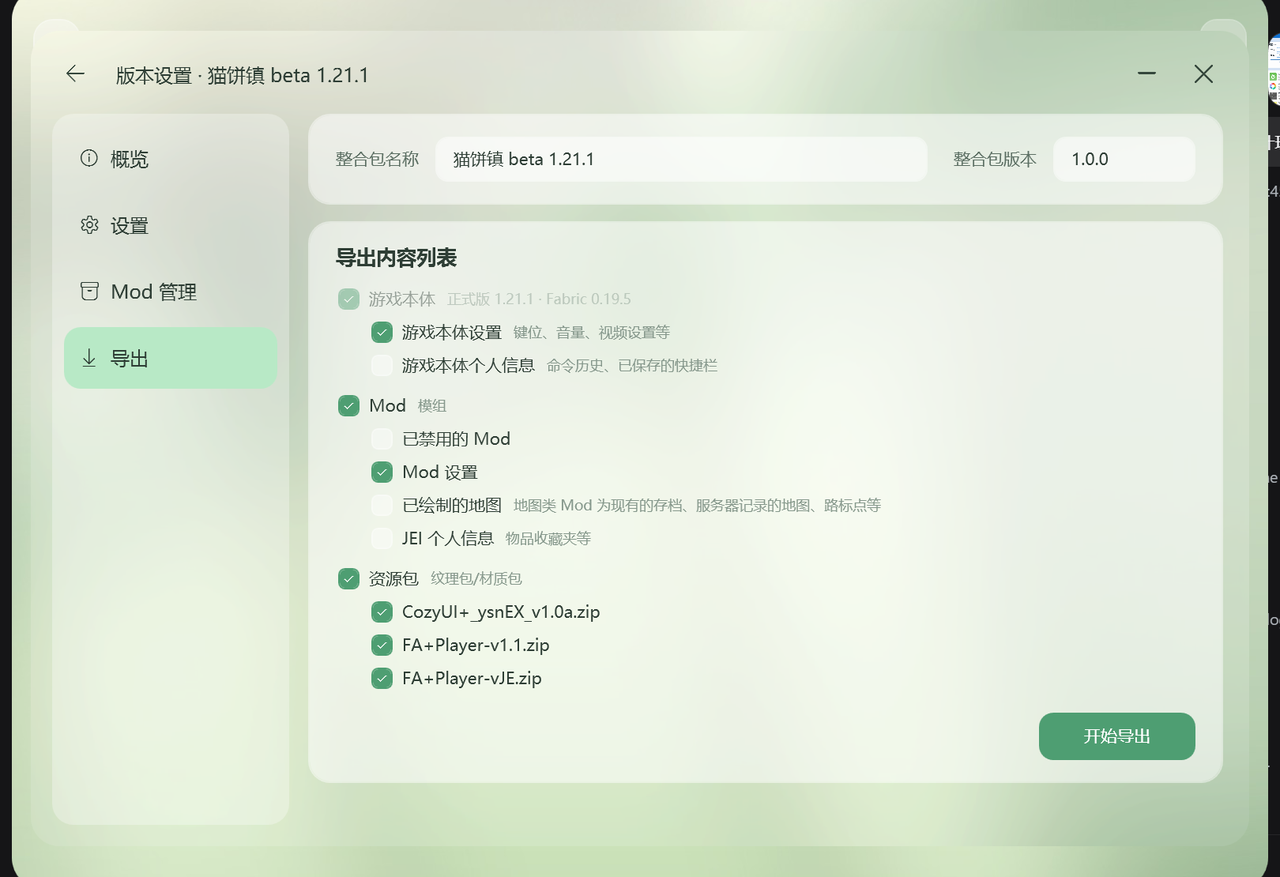
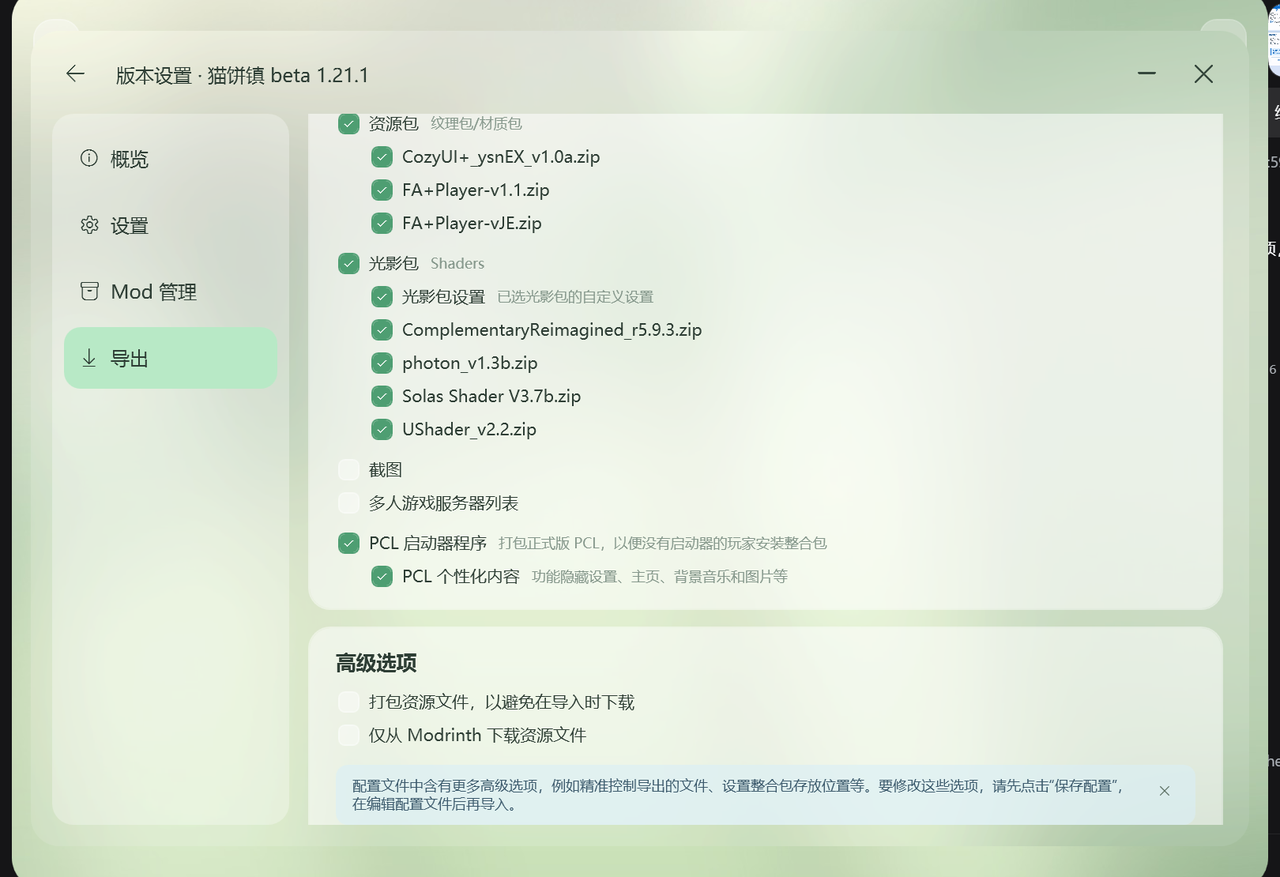
feat: 补全版本设置（高级管理/内存条/服务器/导出高级选项）与回到顶部

diff --git a/src/MutsumiLauncher/Views/VersionSettings/LaunchOptionsPage.xaml b/src/MutsumiLauncher/Views/VersionSettings/LaunchOptionsPage.xaml
@@ -78,17 +78,127 @@
             <Border Style="{StaticResource GlassCard}" Padding="22,18" Margin="0,14,0,0">
                 <StackPanel>
                     <TextBlock Text="内存分配" Style="{StaticResource H2}" />
+
                     <StackPanel Margin="6,14,0,0">
-                        <RadioButton Style="{StaticResource MtlRadio}" Content="跟随全局设置" IsChecked="True" Margin="0,0,0,12" />
+                        <RadioButton Style="{StaticResource MtlRadio}" Content="跟随全局设置"
+                                     IsChecked="True" Margin="0,0,0,12" />
                         <RadioButton Style="{StaticResource MtlRadio}" Content="自动配置" Margin="0,0,0,12" />
-                        <StackPanel Orientation="Horizontal">
-                            <RadioButton Style="{StaticResource MtlRadio}" Content="自定义" VerticalAlignment="Center" />
-                            <TextBlock Text="4096 MB" FontSize="13" Foreground="{StaticResource InkSoft}"
-                                       VerticalAlignment="Center" Margin="12,0,0,0" />
-                        </StackPanel>
+                        <Grid>
+                            <Grid.ColumnDefinitions>
+                                <ColumnDefinition Width="Auto" />
+                                <ColumnDefinition Width="*" />
+                            </Grid.ColumnDefinitions>
+                            <RadioButton Style="{StaticResource MtlRadio}" Content="自定义"
+                                         VerticalAlignment="Center" />
+                            <Slider Grid.Column="1" Style="{StaticResource MtlSlider}" Minimum="512"
+                                    Maximum="32768" Value="8192" Margin="16,0,0,0" VerticalAlignment="Center" />
+                        </Grid>
+                    </StackPanel>
+
+                    <Grid Margin="6,16,0,0">
+                        <Grid.ColumnDefinitions>
+                            <ColumnDefinition Width="200" />
+                            <ColumnDefinition Width="*" />
+                        </Grid.ColumnDefinitions>
+                        <TextBlock Text="启动游戏前进行内存优化" Style="{StaticResource FieldLabel}" />
+                        <ComboBox Grid.Column="1" Style="{StaticResource MtlComboBox}" SelectedIndex="0">
+                            <ComboBoxItem Content="跟随全局设置" />
+                            <ComboBoxItem Content="开启" />
+                            <ComboBoxItem Content="关闭" />
+                        </ComboBox>
+                    </Grid>
+
+                    <StackPanel Margin="6,18,0,0">
+                        <Grid>
+                            <Grid.ColumnDefinitions>
+                                <ColumnDefinition Width="55*" />
+                                <ColumnDefinition Width="45*" />
+                            </Grid.ColumnDefinitions>
+                            <TextBlock Text="已使用内存" FontSize="12" Foreground="{StaticResource InkSoft}" />
+                            <TextBlock Grid.Column="1" Text="游戏分配" FontSize="12"
+                                       Foreground="{StaticResource InkSoft}" />
+                        </Grid>
+                        <Border Height="6" CornerRadius="3" Background="#33FFFFFF" Margin="0,6,0,0"
+                                ClipToBounds="True">
+                            <Grid>
+                                <Grid.ColumnDefinitions>
+                                    <ColumnDefinition Width="55*" />
+                                    <ColumnDefinition Width="45*" />
+                                </Grid.ColumnDefinitions>
+                                <Border Background="{StaticResource AccentDeep}" CornerRadius="3" />
+                                <Border Grid.Column="1" Background="#59FFFFFF" CornerRadius="3" />
+                            </Grid>
+                        </Border>
+                        <Grid Margin="0,6,0,0">
+                            <Grid.ColumnDefinitions>
+                                <ColumnDefinition Width="55*" />
+                                <ColumnDefinition Width="45*" />
+                            </Grid.ColumnDefinitions>
+                            <TextBlock Text="8.7 GB / 15.8 GB" FontSize="13" Foreground="{StaticResource Ink}" />
+                            <TextBlock Grid.Column="1" Text="8.0 GB（可用 7.1 GB）" FontSize="13"
+                                       Foreground="{StaticResource Ink}" />
+                        </Grid>
                     </StackPanel>
                 </StackPanel>
             </Border>
+
+            <Border Style="{StaticResource GlassCard}" Padding="22,18" Margin="0,14,0,0">
+                <StackPanel>
+                    <TextBlock Text="服务器" Style="{StaticResource H2}" />
+
+                    <Grid Margin="0,14,0,0">
+                        <Grid.ColumnDefinitions>
+                            <ColumnDefinition Width="110" />
+                            <ColumnDefinition Width="*" />
+                        </Grid.ColumnDefinitions>
+                        <TextBlock Text="登录方式" Style="{StaticResource FieldLabel}" />
+                        <ComboBox Grid.Column="1" Style="{StaticResource MtlComboBox}" SelectedIndex="0">
+                            <ComboBoxItem Content="正版登录或离线登录" />
+                            <ComboBoxItem Content="仅正版登录" />
+                            <ComboBoxItem Content="仅离线登录" />
+                        </ComboBox>
+                    </Grid>
+
+                    <Grid Margin="0,10,0,0">
+                        <Grid.ColumnDefinitions>
+                            <ColumnDefinition Width="110" />
+                            <ColumnDefinition Width="*" />
+                        </Grid.ColumnDefinitions>
+                        <TextBlock Text="自动进入服务器" Style="{StaticResource FieldLabel}" />
+                        <TextBox Grid.Column="1" Style="{StaticResource MtlTextBox}" />
+                    </Grid>
+                </StackPanel>
+            </Border>
+
+            <Expander Style="{StaticResource Accordion}" Header="高级选项" Margin="0,14,0,0">
+                <StackPanel>
+                    <Grid>
+                        <Grid.ColumnDefinitions>
+                            <ColumnDefinition Width="110" />
+                            <ColumnDefinition Width="*" />
+                        </Grid.ColumnDefinitions>
+                        <TextBlock Text="JVM 参数" Style="{StaticResource FieldLabel}" />
+                        <TextBox Grid.Column="1" Style="{StaticResource MtlTextBox}" />
+                    </Grid>
+                    <Grid Margin="0,10,0,0">
+                        <Grid.ColumnDefinitions>
+                            <ColumnDefinition Width="110" />
+                            <ColumnDefinition Width="*" />
+                        </Grid.ColumnDefinitions>
+                        <TextBlock Text="环境变量" Style="{StaticResource FieldLabel}" />
+                        <TextBox Grid.Column="1" Style="{StaticResource MtlTextBox}" />
+                    </Grid>
+                </StackPanel>
+            </Expander>
+
+            <Button Style="{StaticResource PrimaryButton}" HorizontalAlignment="Right" Margin="0,18,0,0"
+                    Height="46" Padding="26,0">
+                <StackPanel Orientation="Horizontal">
+                    <TextBlock Text="&#xE72A;" FontFamily="{StaticResource IconFont}" FontSize="13"
+                               VerticalAlignment="Center" Margin="0,0,8,0" />
+                    <TextBlock Text="全局设置" VerticalAlignment="Center" FontSize="15" />
+                </StackPanel>
+            </Button>
 
         </StackPanel>
     </ScrollViewer>

diff --git a/src/MutsumiLauncher/Views/VersionSettings/ExportPage.xaml b/src/MutsumiLauncher/Views/VersionSettings/ExportPage.xaml
@@ -95,12 +95,96 @@
                                   Content="FA+Player-v1.1.zip" />
                         <CheckBox Style="{StaticResource MtlCheckBox}" IsChecked="True" Margin="28,10,0,0"
                                   Content="FA+Player-vJE.zip" />
-                    </StackPanel>
 
-                    <Button Style="{StaticResource PrimaryButton}" HorizontalAlignment="Right"
-                            Margin="0,20,0,0" Content="开始导出" Width="132" />
+                        <CheckBox Style="{StaticResource MtlCheckBox}" IsChecked="True" Margin="0,16,0,0">
+                            <StackPanel Orientation="Horizontal">
+                                <TextBlock Text="光影包" FontSize="14" Foreground="{StaticResource Ink}" />
+                                <TextBlock Text="Shaders" FontSize="12" Foreground="{StaticResource InkMute}"
+                                           Margin="10,0,0,0" VerticalAlignment="Center" />
+                            </StackPanel>
+                        </CheckBox>
+
+                        <CheckBox Style="{StaticResource MtlCheckBox}" IsChecked="True" Margin="28,10,0,0">
+                            <StackPanel Orientation="Horizontal">
+                                <TextBlock Text="光影包设置" FontSize="14" Foreground="{StaticResource Ink}" />
+                                <TextBlock Text="已选光影包的自定义设置" FontSize="12"
+                                           Foreground="{StaticResource InkMute}" Margin="10,0,0,0"
+                                           VerticalAlignment="Center" />
+                            </StackPanel>
+                        </CheckBox>
+                        <CheckBox Style="{StaticResource MtlCheckBox}" IsChecked="True" Margin="28,10,0,0"
+                                  Content="ComplementaryReimagined_r5.9.3.zip" />
+                        <CheckBox Style="{StaticResource MtlCheckBox}" IsChecked="True" Margin="28,10,0,0"
+                                  Content="photon_v1.3b.zip" />
+                        <CheckBox Style="{StaticResource MtlCheckBox}" IsChecked="True" Margin="28,10,0,0"
+                                  Content="Solas Shader V3.7b.zip" />
+                        <CheckBox Style="{StaticResource MtlCheckBox}" IsChecked="True" Margin="28,10,0,0"
+                                  Content="UShader_v2.2.zip" />
+
+                        <CheckBox Style="{StaticResource MtlCheckBox}" Margin="0,16,0,0" Content="截图" />
+                        <CheckBox Style="{StaticResource MtlCheckBox}" Margin="0,10,0,0"
+                                  Content="多人游戏服务器列表" />
+
+                        <CheckBox Style="{StaticResource MtlCheckBox}" IsChecked="True" Margin="0,16,0,0">
+                            <StackPanel Orientation="Horizontal">
+                                <TextBlock Text="PCL 启动器程序" FontSize="14" Foreground="{StaticResource Ink}" />
+                                <TextBlock Text="打包正式版 PCL，以便没有启动器的玩家安装整合包" FontSize="12"
+                                           Foreground="{StaticResource InkMute}" Margin="10,0,0,0"
+                                           VerticalAlignment="Center" />
+                            </StackPanel>
+                        </CheckBox>
+                        <CheckBox Style="{StaticResource MtlCheckBox}" IsChecked="True" Margin="28,10,0,0">
+                            <StackPanel Orientation="Horizontal">
+                                <TextBlock Text="PCL 个性化内容" FontSize="14" Foreground="{StaticResource Ink}" />
+                                <TextBlock Text="功能隐藏设置、主页、背景音乐和图片等" FontSize="12"
+                                           Foreground="{StaticResource InkMute}" Margin="10,0,0,0"
+                                           VerticalAlignment="Center" />
+                            </StackPanel>
+                        </CheckBox>
+                    </StackPanel>
                 </StackPanel>
             </Border>
+
+            <Border Style="{StaticResource GlassCard}" Padding="22,18" Margin="0,14,0,0">
+                <StackPanel>
+                    <TextBlock Text="高级选项" Style="{StaticResource H2}" />
+
+                    <CheckBox Style="{StaticResource MtlCheckBox}" Margin="2,14,0,0"
+                              Content="打包资源文件，以避免在导入时下载" />
+                    <CheckBox Style="{StaticResource MtlCheckBox}" Margin="2,10,0,0"
+                              Content="仅从 Modrinth 下载资源文件" />
+
+                    <Border Background="#99D9EEF7" CornerRadius="10" Padding="14,10" Margin="0,16,0,0">
+                        <Grid>
+                            <Grid.ColumnDefinitions>
+                                <ColumnDefinition Width="*" />
+                                <ColumnDefinition Width="Auto" />
+                            </Grid.ColumnDefinitions>
+                            <TextBlock FontSize="12" Foreground="#FF3E5C6E" TextWrapping="Wrap"
+                                       Text="配置文件中含有更多高级选项，例如精准控制导出的文件、设置整合包存放位置等。要修改这些选项，请先点击“保存配置”，在编辑配置文件后再导入。" />
+                            <Button Grid.Column="1" Style="{StaticResource LinkIconButton}" Content="&#xE711;"
+                                    VerticalAlignment="Top" Margin="10,0,0,0" />
+                        </Grid>
+                    </Border>
+
+                    <WrapPanel Margin="0,16,0,0">
+                        <Button Style="{StaticResource SecondaryButton}" Content="读取配置" Width="130"
+                                Margin="0,0,10,0" />
+                        <Button Style="{StaticResource SecondaryButton}" Content="保存配置" Width="130"
+                                Margin="0,0,10,0" />
+                        <Button Style="{StaticResource SecondaryButton}" Content="整合包制作指南" Width="150" />
+                    </WrapPanel>
+                </StackPanel>
+            </Border>
+
+            <Button Style="{StaticResource PrimaryButton}" HorizontalAlignment="Right" Margin="0,18,0,0"
+                    Height="46" Padding="24,0">
+                <StackPanel Orientation="Horizontal">
+                    <TextBlock Text="&#xE7B8;" FontFamily="{StaticResource IconFont}" FontSize="14"
+                               VerticalAlignment="Center" Margin="0,0,8,0" />
+                    <TextBlock Text="开始导出" VerticalAlignment="Center" FontSize="15" />
+                </StackPanel>
+            </Button>
 
         </StackPanel>
     </ScrollViewer>

diff --git a/src/MutsumiLauncher/Themes/Styles.xaml b/src/MutsumiLauncher/Themes/Styles.xaml
@@ -580,5 +580,97 @@
         <Setter Property="FontSize" Value="11" />
         <Setter Property="Foreground" Value="{StaticResource InkMute}" />
     </Style>
+    <Style x:Key="DangerButton" TargetType="Button">
+        <Setter Property="Height" Value="38" />
+        <Setter Property="Padding" Value="18,0" />
+        <Setter Property="Foreground" Value="#FFC0392B" />
+        <Setter Property="FontSize" Value="14" />
+        <Setter Property="Cursor" Value="Hand" />
+        <Setter Property="Template">
+            <Setter.Value>
+                <ControlTemplate TargetType="Button">
+                    <Border x:Name="Bd" Background="#26FFFFFF" BorderBrush="#66C0392B"
+                            BorderThickness="1" CornerRadius="12" Padding="{TemplateBinding Padding}">
+                        <ContentPresenter HorizontalAlignment="Center" VerticalAlignment="Center" />
+                    </Border>
+                    <ControlTemplate.Triggers>
+                        <Trigger Property="IsMouseOver" Value="True">
+                            <Setter TargetName="Bd" Property="Background" Value="#22C0392B" />
+                        </Trigger>
+                    </ControlTemplate.Triggers>
+                </ControlTemplate>
+            </Setter.Value>
+        </Setter>
+    </Style>
+
+    <Style x:Key="CircleButton" TargetType="Button">
+        <Setter Property="Width" Value="44" />
+        <Setter Property="Height" Value="44" />
+        <Setter Property="Foreground" Value="White" />
+        <Setter Property="FontFamily" Value="{StaticResource IconFont}" />
+        <Setter Property="FontSize" Value="15" />
+        <Setter Property="Cursor" Value="Hand" />
+        <Setter Property="Template">
+            <Setter.Value>
+                <ControlTemplate TargetType="Button">
+                    <Border x:Name="Bd" Background="{StaticResource AccentDeep}" CornerRadius="22">
+                        <Border.Effect>
+                            <DropShadowEffect BlurRadius="16" ShadowDepth="3" Direction="270"
+                                              Opacity="0.22" Color="#FF1B2B22" />
+                        </Border.Effect>
+                        <ContentPresenter HorizontalAlignment="Center" VerticalAlignment="Center" />
+                    </Border>
+                    <ControlTemplate.Triggers>
+                        <Trigger Property="IsMouseOver" Value="True">
+                            <Setter TargetName="Bd" Property="Background" Value="#FF3F8E63" />
+                        </Trigger>
+                    </ControlTemplate.Triggers>
+                </ControlTemplate>
+            </Setter.Value>
+        </Setter>
+    </Style>
+
+    <Style x:Key="MtlSlider" TargetType="Slider">
+        <Setter Property="Height" Value="22" />
+        <Setter Property="Template">
+            <Setter.Value>
+                <ControlTemplate TargetType="Slider">
+                    <Grid VerticalAlignment="Center">
+                        <Track x:Name="PART_Track">
+                            <Track.DecreaseRepeatButton>
+                                <RepeatButton Command="Slider.DecreaseLarge">
+                                    <RepeatButton.Template>
+                                        <ControlTemplate TargetType="RepeatButton">
+                                            <Border Height="6" CornerRadius="3"
+                                                    Background="{StaticResource AccentDeep}" />
+                                        </ControlTemplate>
+                                    </RepeatButton.Template>
+                                </RepeatButton>
+                            </Track.DecreaseRepeatButton>
+                            <Track.IncreaseRepeatButton>
+                                <RepeatButton Command="Slider.IncreaseLarge">
+                                    <RepeatButton.Template>
+                                        <ControlTemplate TargetType="RepeatButton">
+                                            <Border Height="6" CornerRadius="3" Background="#40FFFFFF" />
+                                        </ControlTemplate>
+                                    </RepeatButton.Template>
+                                </RepeatButton>
+                            </Track.IncreaseRepeatButton>
+                            <Track.Thumb>
+                                <Thumb Width="16" Height="16">
+                                    <Thumb.Template>
+                                        <ControlTemplate TargetType="Thumb">
+                                            <Ellipse Fill="{StaticResource AccentDeep}" Stroke="White"
+                                                     StrokeThickness="2" />
+                                        </ControlTemplate>
+                                    </Thumb.Template>
+                                </Thumb>
+                            </Track.Thumb>
+                        </Track>
+                    </Grid>
+                </ControlTemplate>
+            </Setter.Value>
+        </Setter>
+    </Style>
 
 </ResourceDictionary>

diff --git a/src/MutsumiLauncher/Views/VersionSettings/OverviewPage.xaml b/src/MutsumiLauncher/Views/VersionSettings/OverviewPage.xaml
@@ -71,6 +71,20 @@
                 </StackPanel>
             </Border>
 
+            <Border Style="{StaticResource GlassCard}" Padding="22,18" Margin="0,14,0,0">
+                <StackPanel>
+                    <TextBlock Text="高级管理" Style="{StaticResource H2}" />
+                    <WrapPanel Margin="0,14,0,0">
+                        <Button Style="{StaticResource SecondaryButton}" Content="导出启动脚本"
+                                Width="150" Margin="0,0,10,10" />
+                        <Button Style="{StaticResource SecondaryButton}" Content="补全文件"
+                                Width="150" Margin="0,0,10,10" />
+                        <Button Style="{StaticResource DangerButton}" Content="删除版本"
+                                Width="150" Margin="0,0,10,10" />
+                    </WrapPanel>
+                </StackPanel>
+            </Border>
+
         </StackPanel>
     </ScrollViewer>
 </UserControl>

diff --git a/src/MutsumiLauncher/Views/VersionSettings/ModManagePage.xaml b/src/MutsumiLauncher/Views/VersionSettings/ModManagePage.xaml
@@ -43,7 +43,7 @@
                                  Content="禁用 (1)" Checked="Filter_Checked" Margin="4,0,0,0" />
                 </StackPanel>
 
-                <ScrollViewer Grid.Row="1" VerticalScrollBarVisibility="Hidden"
+                <ScrollViewer x:Name="ModScroll" Grid.Row="1" VerticalScrollBarVisibility="Hidden"
                               HorizontalScrollBarVisibility="Disabled">
                     <ItemsControl x:Name="ModList">
                         <ItemsControl.ItemTemplate>
@@ -83,6 +83,10 @@
                         </ItemsControl.ItemTemplate>
                     </ItemsControl>
                 </ScrollViewer>
+
+                <Button Style="{StaticResource CircleButton}" Content="&#xE70E;"
+                        HorizontalAlignment="Right" VerticalAlignment="Bottom"
+                        Margin="0,0,8,8" Click="ScrollTop_Click" ToolTip="回到顶部" />
             </Grid>
         </Border>
     </Grid>

diff --git a/src/MutsumiLauncher/Views/VersionSettings/ModManagePage.xaml.cs b/src/MutsumiLauncher/Views/VersionSettings/ModManagePage.xaml.cs
@@ -28,6 +28,8 @@ public partial class ModManagePage : UserControl
         ApplyFilter();
     }
 
+    private void ScrollTop_Click(object sender, RoutedEventArgs e) => ModScroll.ScrollToTop();
+
     private void ApplyFilter()
     {
         if (ModList is null) return;

diff --git a/README.md b/README.md
@@ -58,7 +58,11 @@ MutsumiLauncher/
 - **下载页**：左侧来源列表（原版资源 / 社区资源及其子类），右侧「最新版本」卡片 + 四个可折叠版本分组，切换页面时背景自动高斯模糊。
 - **设置页**：外观、下载源、Java、数据目录占位项。
 - **汉堡菜单**：点击左上角按钮，导航条会从按钮本身的形状向右生长成整条玻璃导航层（启动 / 下载 / 设置），右侧关闭按钮的底片同步溶解、与导航条融为一条；启动页上点击层外自动收起，子页上常驻；页面切换带淡入动画；底部有轻提示（Toast）。
-- **版本设置窗口**：启动页版本胶囊右侧的齿轮打开；左侧「概览 / 设置 / Mod 管理 / 导出」四页，玻璃卡片 + 自绘下拉框 / 勾选框 / 单选按钮；Mod 管理支持按名称搜索与启用状态过滤。
+- **版本设置窗口**：启动页版本胶囊右侧的齿轮打开；左侧「概览 / 设置 / Mod 管理 / 导出」四页，玻璃卡片 + 自绘下拉框 / 勾选框 / 单选按钮 / 滑杆。
+  - 概览：版本信息、个性化、快捷方式、高级管理（导出启动脚本 / 补全文件 / 删除版本）
+  - 设置：启动选项、内存分配（滑杆 + 内存占用条）、服务器、高级选项折叠区、全局设置入口
+  - Mod 管理：名称搜索、启用状态过滤、回到顶部悬浮按钮
+  - 导出：可勾选的导出内容树（Mod / 资源包 / 光影包 / 启动器程序等）、高级选项与配置读写入口
 - **社区资源搜索**：下载页切到 mod / 整合包 / 数据包 / 资源包 / 光影包 后，右侧变为搜索表单 + 结果列表；「原版资源」仍显示版本清单。
 
 ![版本设置](docs/screenshots/version-overview.png)
